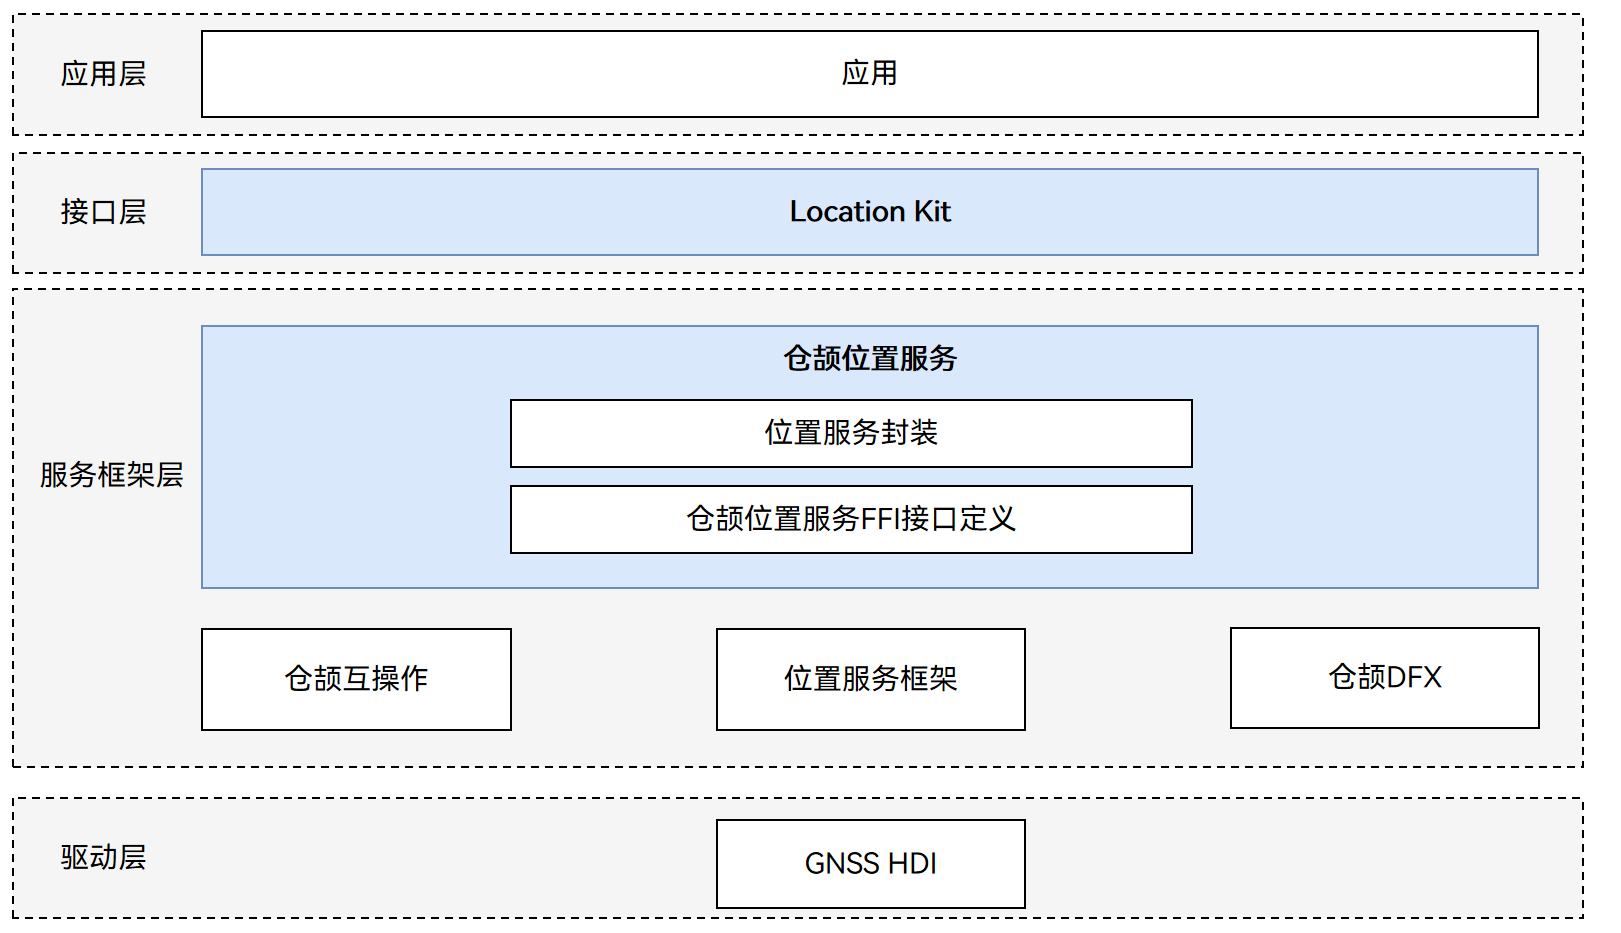
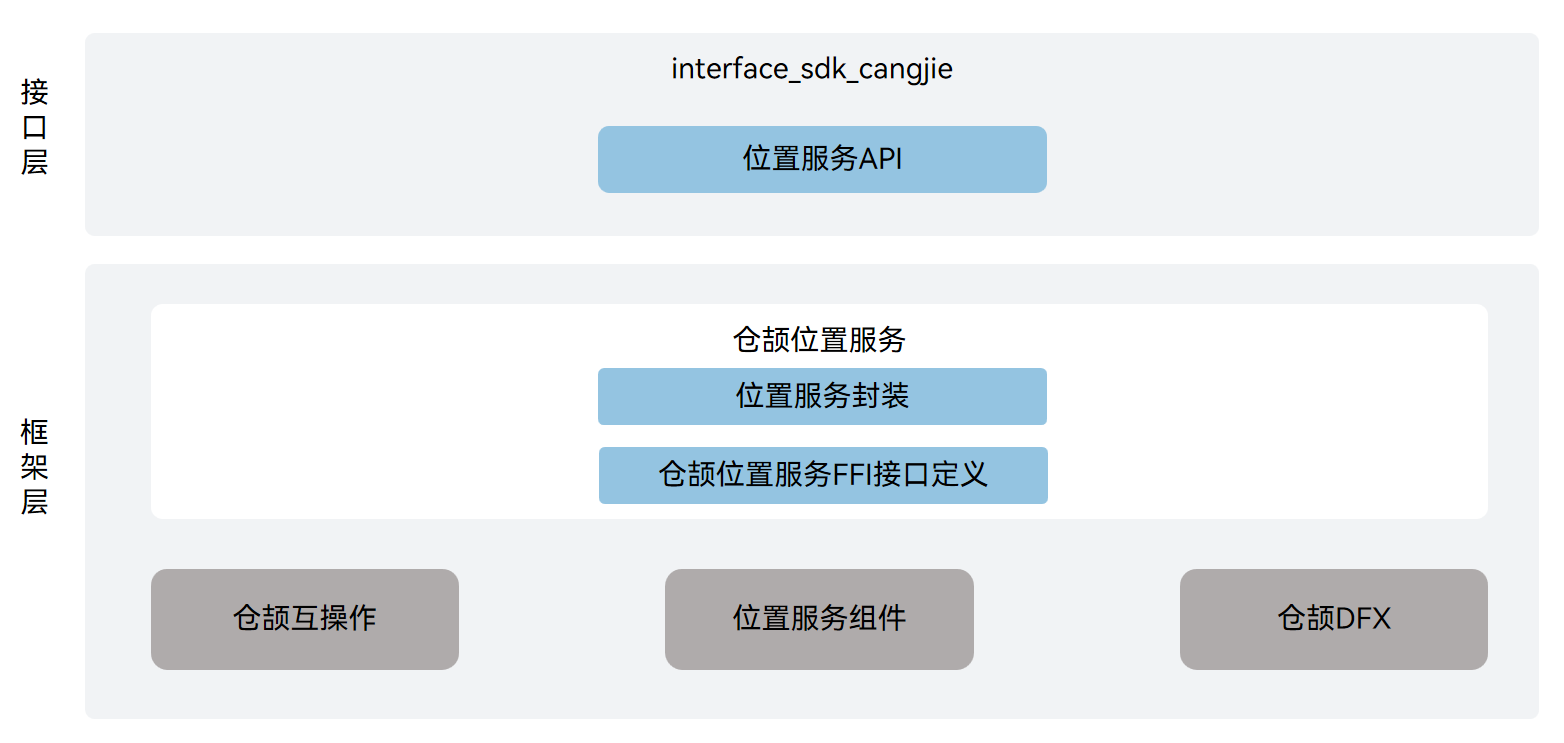
fix the internal review comments

diff --git a/README.md b/README.md
@@ -2,44 +2,54 @@
 
 ## Introduction
 
-The location_cangjie_wrapper is a Cangjie API encapsulated on OpenHarmony based on the capabilities of the Location Subsystem. People take their mobile devices wherever they go. Mobile devices have become a necessity in people's daily routines, whether it be for looking at the weather forecast, browsing news, hailing a taxi, navigating, or recording data from a workout. All these activities are so much associated with the location services on mobile devices.
+The location_cangjie_wrapper is a Cangjie API encapsulated on OpenHarmony based on the capabilities of the Location Component. Mobile terminal devices have been deeply integrated into all aspects of people's daily lives, such as checking the weather in their city, news stories, calling for rides, travel navigation, and fitness tracking. These common activities all rely on locating the user's terminal device.
 
-With the location awareness capability offered by OpenHarmony, mobile devices will be able to obtain real-time, accurate location data. Building location awareness into your application can also lead to a better contextual experience for application users.
+When users are in these rich usage scenarios, the system's location capability can provide real-time and accurate location data. For developers, designing location-based services can make the application experience more personalized for each user.
 
-Your application can call location-specific APIs to obtain the location information of a mobile device for offering location-based services such as drive navigation and motion track recording.
+When applications implement device location-based features, such as driving navigation or recording exercise routes, they can call the module's API interfaces to obtain location information.
 
-The currently open position service Cangjie interface supports only standard devices.
+The currently open location service Cangjie interface only supports standard devices.
 
 **Basic Concepts**
 
-Location awareness helps determine where a mobile device locates. The system identifies the location of a mobile device with its coordinates, and uses location technologies such as Global Navigation Satellite System (GNSS) and network positioning (for example, base station positioning or WLAN/Bluetooth positioning) to provide diverse location-based services. These advanced location technologies make it possible to obtain the accurate location of the mobile device, regardless of whether it is indoors or outdoors.
+Location capability is used to determine where the user's device is located. The system uses location coordinates to indicate the device's position and provides services through multiple positioning technologies, such as GNSS positioning, base station positioning, and WLAN/Bluetooth positioning (base station positioning, WLAN/Bluetooth positioning are collectively referred to as "network positioning technology"). Through these positioning technologies, the device's location can be accurately determined whether the user's device is indoors or outdoors.
 
 -   **Coordinate**
 
-    A coordinate describes a location on the earth using the longitude and latitude in reference to the World Geodetic Coordinate System 1984.
+    The system uses the World Geodetic System 1984 as a reference, using longitude and latitude data to describe a location on Earth.
 
 -   **GNSS positioning**
 
-    GNSS positioning locates a mobile device by using the location algorithm offered by the device chip to compute the location information provided by the Global Navigation Satellite System, for example, GPS, GLONASS, BeiDou, and Galileo. Whichever positioning system will be used during the location process depends on a hardware capability of the device.
+    Based on the Global Navigation Satellite System, including GPS, GLONASS, BeiDou, Galileo, etc., it determines the device's accurate location through navigation satellites and the positioning algorithms provided by the device chip. The specific positioning systems used in the positioning process depend on the hardware capabilities of the user's device.
 
 -   **Base station positioning**
 
-    Base station positioning estimates the current location of a mobile device based on the location of the resident base station in reference to the neighboring base stations. This technology provides only a low accuracy and requires access to the cellular network.
+    Estimates the device's current location based on the position of the current network base station and neighboring base stations. The positioning accuracy of this method is relatively low and requires the device to access the cellular network.
 
--   **WLAN or Bluetooth positioning**
+-   **WLAN and Bluetooth positioning**
 
-    WLAN or Bluetooth positioning estimates the current location of a mobile device based on the locations of WLANs and Bluetooth devices that can be discovered by the device. The location accuracy of this technology depends on the distribution of fixed WLAN access points (APs) and Bluetooth devices around the device. A high density of WLAN APs and Bluetooth devices can produce a more accurate location result than base station positioning. This technology also requires access to the network.
+    Estimates the device's current location based on the positions of surrounding WLAN and Bluetooth devices that can be detected by the device. The positioning accuracy of this method depends on the distribution of visible fixed WLAN and Bluetooth devices around the device. When the density is high, the accuracy is higher compared to base station positioning, and it also requires the device to access the network.
 
 **Figure 1** location_cangjie_wrapper architecture**  
 
 ![](figures/location_cangjie_wrapper_architecture_en.png)
 
 As illustrated in the architecture diagram:
-- Location Services Wrapper: Provides a method for acquiring the current location. Provides a method to check if location services are enabled.
+
+Interface layer description:
+
+- Location Service API: Cangjie public interfaces based on location service encapsulation exposed to users.
+
+Framework layer description:
+
+- Location Service Wrapper: Provides Cangjie encapsulation method implementations for obtaining the current location and checking if the location service is enabled.
 - Cangjie Location Services FFI Wrapper Definition: Responsible for defining the C language interoperability interface for Cangjie, aimed at implementing Cangjie location service capabilities.
-- Cangjie ark interop: Encapsulates public interfaces for C language interoperation, and provides Cangjie tag class implementation for annotating Cangjie APIs, as well as providing BusinessException exception class definitions thrown to users.
-- Location Framework: Provides basic functions of location services through calling underlying GNSS HDI with C language interfaces.
-- Cangjie DFX: Responsible for providing log interfaces for printing logs at critical paths.
+
+Cangjie Location Service Dependencies:
+
+- Cangjie Interop: Encapsulates public interfaces for C language interoperation, and provides Cangjie tag class implementation for annotating Cangjie APIs, as well as providing BusinessException exception class definitions thrown to users.
+- Location Service Framework: Provides C language interfaces for basic location services that can be called by the location service Cangjie interface through calling underlying GNSS driver interfaces.
+- Cangjie DFX: Responsible for providing log interfaces, providing Cangjie interfaces that can be called by the location service Cangjie interface to print logs at critical paths.
 
 ## Directory Structure
 
@@ -55,18 +65,20 @@ base/location/location_cangjie_wrapper
         └── test                      # Location manager test project
 ```
 
-## Constraints
-
-Your application can use the location function only after the user has granted the permission and turned on the function. If the location function is off, the system will not provide the location service for any application.
-
-Since the location information is considered sensitive, your application still needs to obtain the location access permission from the user even if the user has turned on the location function. The system will provide the location service for your application only after it has been granted the permission to access the device location information.
-
 ## Usage
 
 The following location service functions have been provided:
 
 - Obtains the current location.
 - Checks whether the location service is enabled.
+
+For APIs related to location, please refer to [geo_location_manager API Reference](https://gitcode.com/openharmony-sig/arkcompiler_cangjie_ark_interop/tree/master/doc/API_Reference/source_en/apis/LocationKit). Please refer to [Location Development Guide](https://gitcode.com/openharmony-sig/arkcompiler_cangjie_ark_interop/tree/master/doc/Dev_Guide/source_en/location/cj-location-guidelines.md) for related guidance.
+
+## Constraints
+
+Your application can use the location function only after the user has granted the permission and turned on the function. If the location function is off, the system will not provide the location service for any application.
+
+Since the location information is considered sensitive, your application still needs to obtain the location access permission from the user even if the user has turned on the location function. The system will provide the location service for your application only after it has been granted the permission to access the device location information.
 
 Compared with the API capabilities provided by ArkTS, the following functionalities are currently not supported:
 
@@ -91,8 +103,6 @@ Compared with the API capabilities provided by ArkTS, the following functionalit
 - Sends extended commands to the location subsystem. 
 - Checks whether a user agrees with the privacy statement of the location service. 
 - Sets the user confirmation status for the privacy statement of the location service.
-
-For APIs related to location, please refer to [geo_location_manager API Reference](https://gitcode.com/openharmony-sig/arkcompiler_cangjie_ark_interop/tree/master/doc/API_Reference/source_en/apis/LocationKit). Please refer to [Location Development Guide](https://gitcode.com/openharmony-sig/arkcompiler_cangjie_ark_interop/tree/master/doc/Dev_Guide/source_en/location/cj-location-guidelines.md) for related guidance.
 
 ## Code Contribution
 

diff --git a/README_zh.md b/README_zh.md
@@ -1,8 +1,8 @@
-# 位置服务仓颉接口
+# 位置服务仓颉封装
 
 ## 简介
 
-位置服务仓颉接口是在 OpenHarmony 上基于位置服务子系统能力之上封装的仓颉API。移动终端设备已经深入人们日常生活的方方面面，如查看所在城市的天气、新闻轶事、出行打车、旅行导航、运动记录。这些习以为常的活动，都离不开定位用户终端设备的位置。
+位置服务仓颉接口是在 OpenHarmony 上面向开发者进行应用开发使用的位置服务能力之上封装的仓颉API。移动终端设备已经深入人们日常生活的方方面面，如查看所在城市的天气、新闻轶事、出行打车、旅行导航、运动记录。这些习以为常的活动，都离不开定位用户终端设备的位置。
 
 当用户处于这些丰富的使用场景中时，系统的位置能力可以提供实时准确的位置数据。对于开发者，设计基于位置体验的服务，也可以使应用的使用体验更贴近每个用户。
 
@@ -36,11 +36,20 @@
 
 如架构图所示：
 
-- 位置服务封装：提供获取当前位置的方法，提供判断位置服务是否开启的方法。
+接口层说明：
+
+- 位置服务API：基于位置服务封装面向开发者开放的仓颉公开接口声明。
+
+框架层说明：
+
+- 位置服务封装：提供获取当前位置、提供判断位置服务是否开启的仓颉封装方法实现。该封装层是基于位置服务组件对位置服务功能进行的仓颉封装实现。
 - 仓颉位置服务 FFI封装定义：负责定义被Cangjie语言调用的C语言互操作接口，用于实现仓颉位置服务能力。
+
+仓颉位置服务依赖部件引入说明：
+
 - 仓颉互操作：封装C语言互操作公共接口，并提供仓颉标签类实现用于对仓颉API进行标注，以及提供抛向用户的BusinessException异常类定义。
-- 位置服务框架：通过调用底层GNSS驱动接口，提供位置服务基本功能的C语言接口。
-- 仓颉DFX：负责提供日志接口，用于在关键路径处打印日志。
+- 位置服务组件：通过调用底层GNSS驱动接口，提供可被位置服务仓颉接口调用的位置服务基本功能的C语言接口。
+- 仓颉DFX：负责提供日志接口，提供可被位置服务仓颉接口调用的在关键路径处打印日志能力的仓颉接口。
 
 ## 目录
 
@@ -56,17 +65,19 @@ base/location/location_cangjie_wrapper
         └── test                      # 位置管理测试工程
 ```
 
-## 约束
-
-使用设备的位置能力，需要用户进行确认并主动开启位置开关。如果位置开关没有开启，系统不会向任何应用提供位置服务。
-
-设备位置信息属于用户敏感数据，所以即使用户已经开启位置开关，应用在获取设备位置前仍需向用户申请位置访问权限。在用户确认允许后，系统才会向应用提供位置服务。
-
 ## 使用说明
 
 提供了以下位置服务功能：
 - 获取当前位置功能
 - 判断位置服务是否已经打开功能
+
+Location相关API使用请参见[geo_location_manager API 参考](https://gitcode.com/openharmony-sig/arkcompiler_cangjie_ark_interop/tree/master/doc/API_Reference/source_zh_cn/apis/LocationKit)，相关接口使用指导请参见[Location开发指南](https://gitcode.com/openharmony-sig/arkcompiler_cangjie_ark_interop/tree/master/doc/Dev_Guide/source_zh_cn/location/cj-location-guidelines.md)。
+
+## 约束
+
+使用设备的位置能力，需要用户进行确认并主动开启位置开关。如果位置开关没有开启，系统不会向任何应用提供位置服务。
+
+设备位置信息属于用户敏感数据，所以即使用户已经开启位置开关，应用在获取设备位置前仍需向用户申请位置访问权限。在用户确认允许后，系统才会向应用提供位置服务。
 
 与ArkTS提供的API能力相比，暂不支持以下功能：
 - 开启位置变化订阅，并发起定位请求
@@ -90,8 +101,6 @@ base/location/location_cangjie_wrapper
 - 给位置服务子系统发送扩展命令
 - 查询用户是否同意定位服务的隐私申明
 - 设置并记录用户是否同意定位服务的隐私申明
-
-Location相关API使用请参见[geo_location_manager API 参考](https://gitcode.com/openharmony-sig/arkcompiler_cangjie_ark_interop/tree/master/doc/API_Reference/source_zh_cn/apis/LocationKit)，相关接口使用指导请参见[Location开发指南](https://gitcode.com/openharmony-sig/arkcompiler_cangjie_ark_interop/tree/master/doc/Dev_Guide/source_zh_cn/location/cj-location-guidelines.md)。
 
 ## 参与贡献
 
